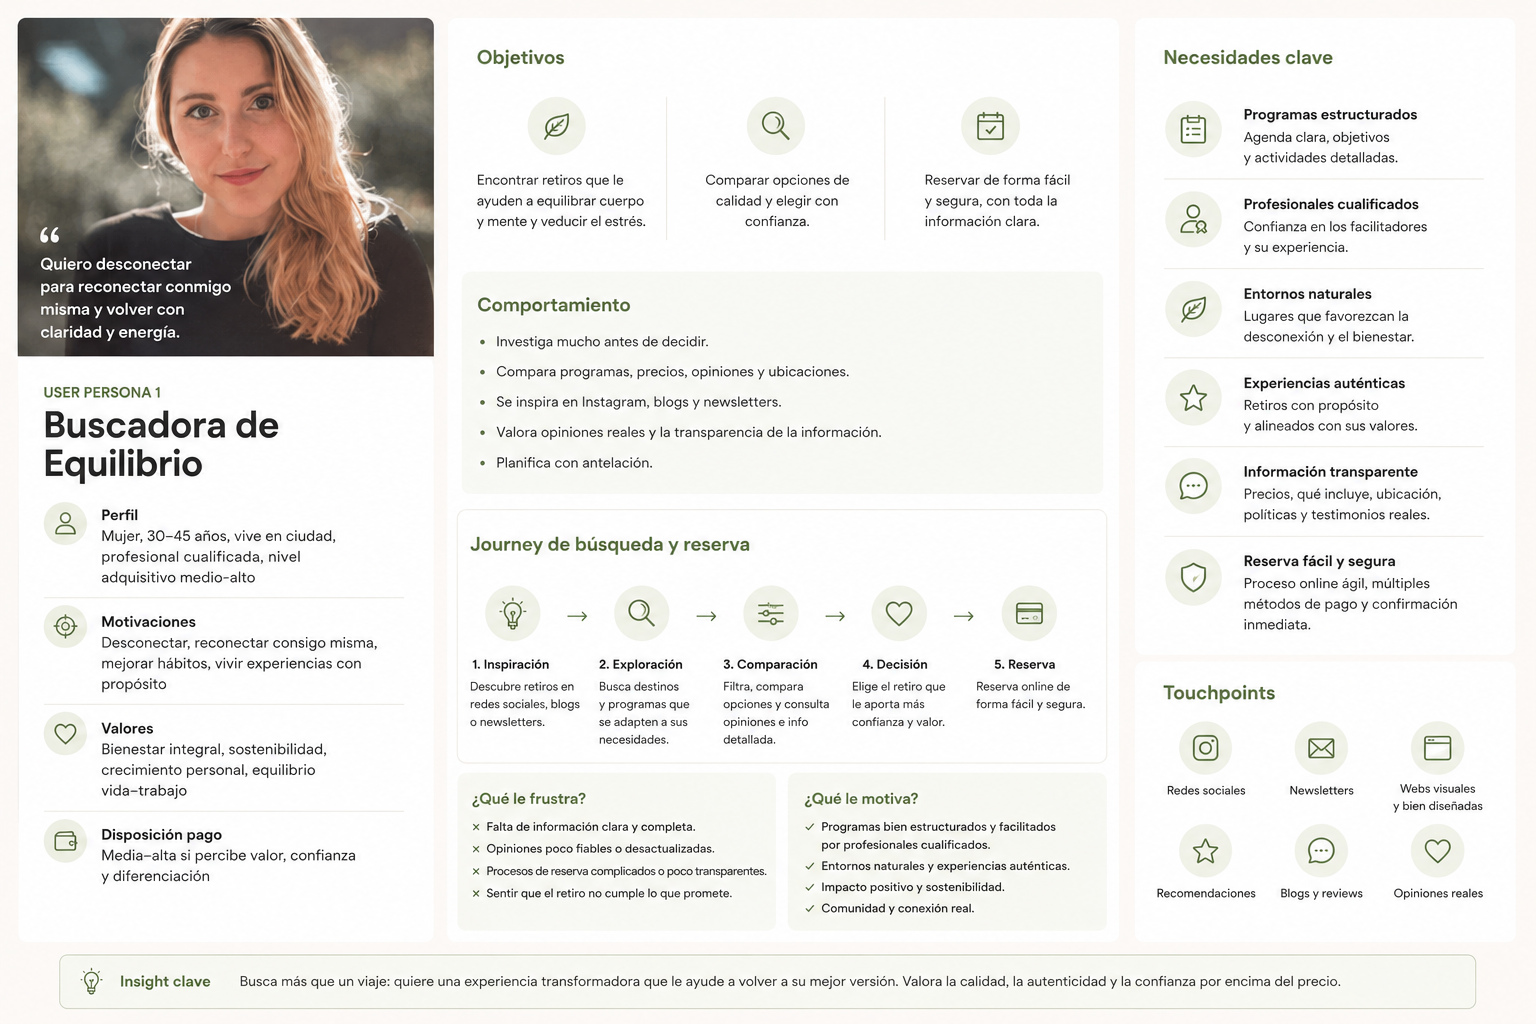
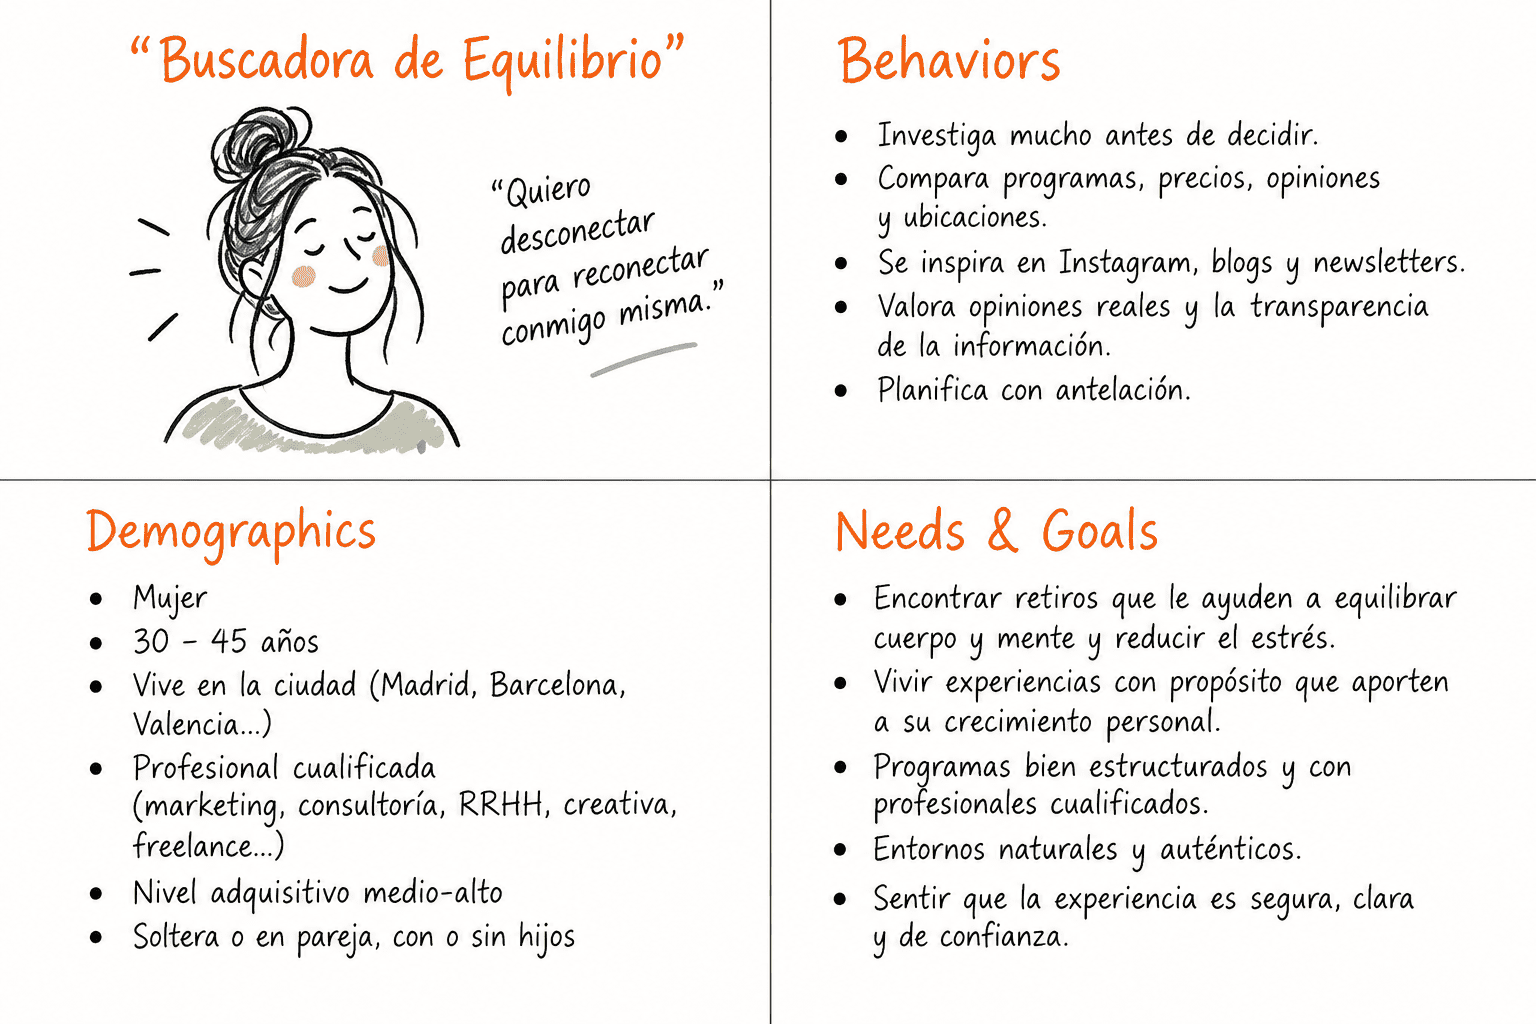
carrusel protopersona

diff --git a/src/components/CaseStudyImagePair/CaseStudyImagePair.tsx b/src/components/CaseStudyImagePair/CaseStudyImagePair.tsx
@@ -10,10 +10,17 @@ type CaseStudyImagePairProps = {
 };
 
 export function CaseStudyImagePair({ locale, block }: CaseStudyImagePairProps) {
-  const stacked = block.layout === "stack";
+  const layout = block.layout ?? "row";
+  const isCarousel = layout === "carousel";
+  const stacked = layout === "stack";
 
   return (
-    <div className={`${styles.pair} ${stacked ? styles.stack : ""}`}>
+    <div
+      className={`${styles.pair} ${stacked ? styles.stack : ""} ${isCarousel ? styles.carousel : ""}`}
+      role={isCarousel ? "region" : undefined}
+      aria-label={isCarousel ? "User personas" : undefined}
+      tabIndex={isCarousel ? 0 : undefined}
+    >
       {block.images.map((image) => (
         <figure key={image.src} className={styles.figure}>
           <Image
@@ -23,9 +30,11 @@ export function CaseStudyImagePair({ locale, block }: CaseStudyImagePairProps) {
             height={image.height}
             className={styles.image}
             sizes={
-              stacked
-                ? "(min-width: 48rem) 768px, calc(100vw - 24px)"
-                : "(min-width: 48rem) 380px, calc(100vw - 24px)"
+              isCarousel
+                ? "(min-width: 48rem) 586px, 85vw"
+                : stacked
+                  ? "(min-width: 48rem) 768px, calc(100vw - 24px)"
+                  : "(min-width: 48rem) 380px, calc(100vw - 24px)"
             }
           />
         </figure>

diff --git a/src/components/CaseStudyImagePair/CaseStudyImagePair.module.css b/src/components/CaseStudyImagePair/CaseStudyImagePair.module.css
@@ -14,14 +14,50 @@
 .image {
   width: 100%;
   height: auto;
+  display: block;
 }
 
 .stack {
   gap: 1.5rem;
 }
 
+.carousel {
+  display: flex;
+  grid-template-columns: none;
+  gap: 1.5rem; /* 24px — Figma */
+  width: 100%;
+  margin-block: 0.5rem;
+  overflow-x: auto;
+  overscroll-behavior-x: contain;
+  scroll-snap-type: x mandatory;
+  scroll-padding-inline: 0;
+  -webkit-overflow-scrolling: touch;
+  scrollbar-width: thin;
+}
+
+.carousel:focus-visible {
+  outline: var(--focus-ring);
+  outline-offset: 3px;
+}
+
+.carousel .figure {
+  flex: 0 0 auto;
+  width: min(36.65rem, calc(100% - 3rem));
+  scroll-snap-align: start;
+}
+
+.carousel .image {
+  width: 100%;
+  height: auto;
+  object-fit: cover;
+}
+
 @media (min-width: 48rem) {
-  .pair:not(.stack) {
+  .pair:not(.stack):not(.carousel) {
     grid-template-columns: 1fr 1fr;
+  }
+
+  .carousel .figure {
+    width: 36.65rem; /* ~586px Figma */
   }
 }

diff --git a/src/data/case-studies.ts b/src/data/case-studies.ts
@@ -90,7 +90,7 @@ export type CaseStudyFeatureBlock = {
 export type CaseStudyImagePairBlock = {
   type: "image-pair";
   navId: string;
-  layout?: "row" | "stack";
+  layout?: "row" | "stack" | "carousel";
   images: Array<{
     src: string;
     width: number;
@@ -278,7 +278,7 @@ export const caseStudies: CaseStudy[] = [
       {
         type: "image-pair",
         navId: "research",
-        layout: "stack",
+        layout: "carousel",
         images: [
           {
             src: img("persona-buscadora-de-equilibrio.png"),
